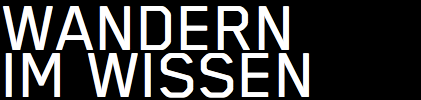
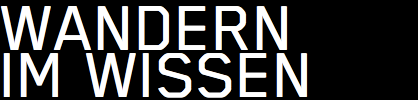
css: aufräumen

Changed region(s): [[0.0, 0.06, 0.5909, 0.99], [0.4665, 0.06, 0.622, 0.51], [0.7153, 0.54, 0.7464, 0.87]]

diff --git a/public/style/app.css b/public/style/app.css
@@ -3,8 +3,6 @@ html {
   color: white;  
   font-family: 'Trebuchet MS',Verdana,Helvetica,Arial,sans-serif;
   background-color: #000;
-  font-size: 15px;
-  background-color: black;
   background-image: url(126_960.jpg);
   background-repeat: no-repeat;
   background-position: right 70px;
@@ -13,7 +11,8 @@ a, a:visited {
   color: white;
 }
 h1 {
-  font-size: 24px;
+  font-size: 22px;
+  line-height: 23px; 
   margin-bottom: 8px;
 }
 .sent-info {
@@ -38,8 +37,8 @@ h1#title {
   margin-bottom: 5px;
 }
 h2#subtitle {
-  font-size: 16px;
-  line-height: 16px;
+  font-size: 15px;
+  line-height: 18px;
 }
 
 div#search {   
@@ -54,7 +53,7 @@ div#search form input[type=text] {
   border: 1px solid #FF8000;
   width: 760px;
   height: 30px;
-  font-size: 24px;
+  font-size: 22px;
   color: white;
   padding: 1px 5px;
 }
@@ -74,28 +73,30 @@ div#search .submit-button {
   top: -1px;
   color: #FF8000;
   cursor: pointer;
-  font-size: 24px;
+  font-size: 22px;
   padding: 5px;
 }
+div#search a#suub-result{
+  color: #FF8000;
+}
 
-div#main {
-  position: relative;
-  height: 454px;
+div#main {  
+  position: relative;  
+  min-height: 464px;
+  font-size: 15px;
+  line-height: 18px;
   background-color: rgba(022, 022, 022, 0.9);  /* FF3+, Saf3+, Opera 10.10+, Chrome */
   filter:  progid:DXImageTransform.Microsoft.gradient(startColorStr='#e6161616',EndColorStr='#e6161616'); /* IE6,IE7 */
   -ms-filter: "progid:DXImageTransform.Microsoft.gradient(startColorStr='#e6161616',EndColorStr='#e6161616')"; /* IE8  */
 }
-a#suub-result{
-  color: #FF8000;
-}
 div#webcam {
   position: absolute;
-  right: 0px;
+  right: 1px;
   top: 10px;
 }
 div#info {
-  padding: 10px;
-  width: 342px;
+  padding: 10px 10px;
+  width: 352px;
 }
 div#info p {
   margin: 6px 0px;

diff --git a/public/index.html b/public/index.html
@@ -9,7 +9,7 @@
   <div id="page">
     
   <div id="head">  
-    <img src="head.png" width="421" height="100" alt="Wandern im Wissen">    
+    <img src="head.png" width="418" height="100" alt="Wandern im Wissen">    
     <h1 id="title">
       Wandern <br>
       im Wissen
@@ -52,7 +52,7 @@
     <div id="info">
       <h1>Wandern im Wissen – Medieninstallation und Leitsystem</h1>
       <p>
-        Täglich wird in der <a href="http://www.suub.uni-bremen.de" target="_blank">Staats- und Universitätsbibliothek Bremen</a> ein schier endloser Strom an Suchanfragen bearbeitet und beantwortet.  
+        In der <a href="http://www.suub.uni-bremen.de" target="_blank">Staats- und Universitätsbibliothek Bremen</a> wird täglich ein schier endloser Strom an Suchanfragen bearbeitet und beantwortet.  
       </p>
       <p>
         Auf dieser Skulptur aus gefaltetem Papier werden die Suchbegriffe in Echtzeit in assoziative Bildwelten, Animationen, Textfragmente und Literaturhinweise übersetzt.  
